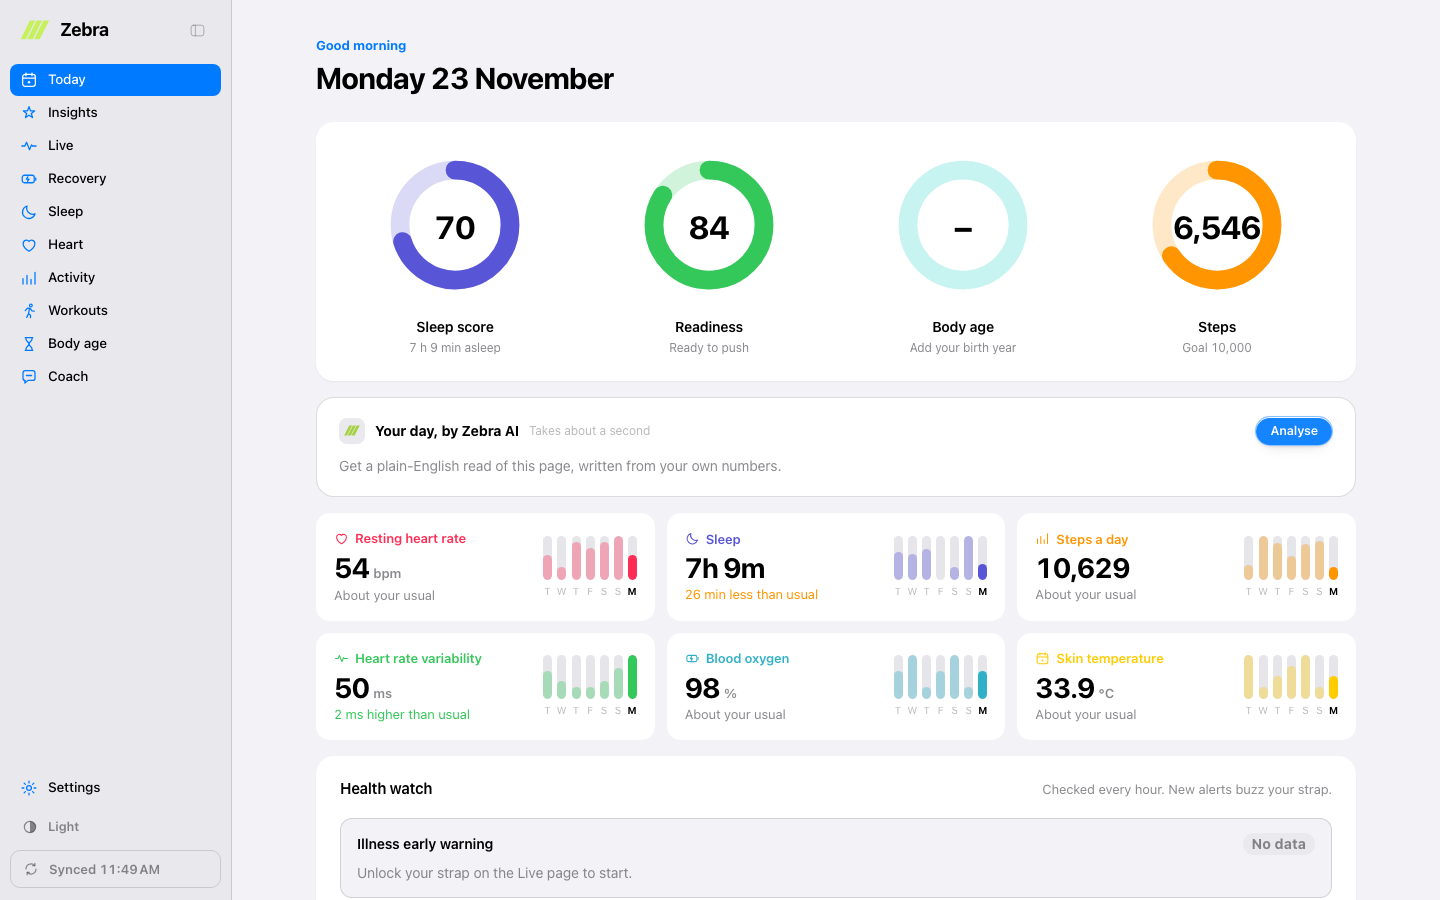
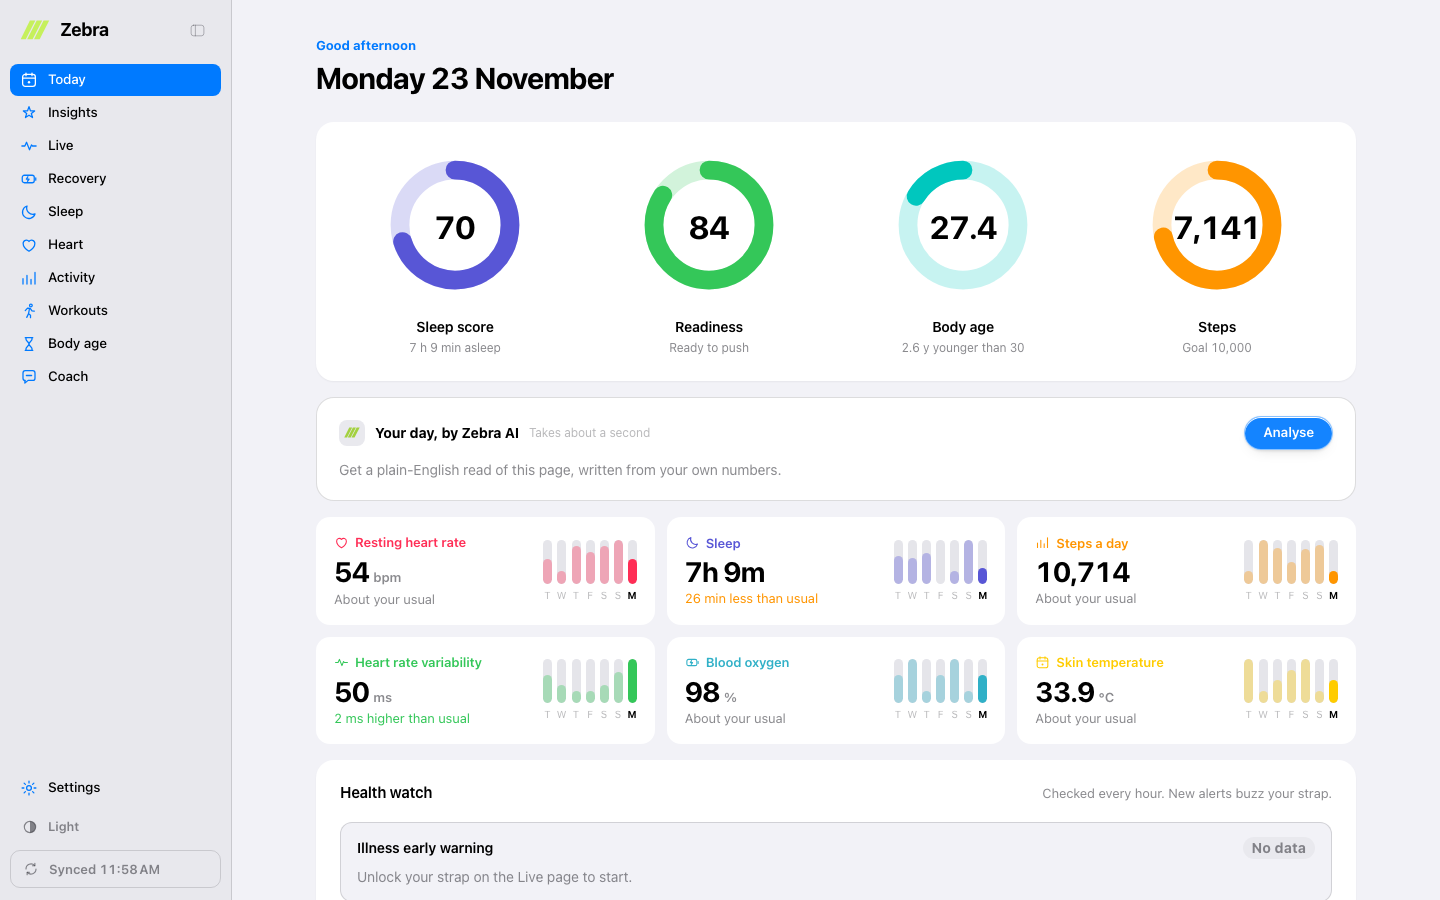
Download page (site/), light theme screenshot, website link

diff --git a/site/index.html b/site/index.html
@@ -1,0 +1,118 @@
+<!doctype html>
+<html lang="en">
+<head>
+<meta charset="utf-8">
+<meta name="viewport" content="width=device-width, initial-scale=1">
+<title>Zebra for Helio Strap</title>
+<meta name="description" content="A free, open-source Mac app for the Amazfit Helio Strap. Recovery, sleep, body age, live heart rate over Bluetooth, and an AI coach on any provider.">
+<meta property="og:title" content="Zebra: a Mac app for the Amazfit Helio Strap">
+<meta property="og:description" content="Free and open source. Recovery, sleep, body age, live heart rate and an AI coach.">
+<meta property="og:image" content="/img/today.png">
+<link rel="icon" href="/img/icon.png">
+<style>
+:root { --bg:#000; --surface:#1c1c1e; --text:#fff; --muted:rgba(235,235,245,.6); --line:rgba(255,255,255,.1); --accent:#0a84ff; --lime:#c6f05c; }
+@media (prefers-color-scheme: light) { :root { --bg:#f2f2f7; --surface:#fff; --text:#000; --muted:rgba(60,60,67,.6); --line:rgba(0,0,0,.08); --accent:#007aff; } }
+* { box-sizing: border-box; }
+body { margin:0; background:var(--bg); color:var(--text); font:17px/1.5 -apple-system, BlinkMacSystemFont, "SF Pro Text", "Helvetica Neue", sans-serif; -webkit-font-smoothing:antialiased; }
+a { color:var(--accent); text-decoration:none; }
+.wrap { max-width:1120px; margin:0 auto; padding:0 20px; }
+nav { display:flex; align-items:center; justify-content:space-between; padding:18px 0; }
+.brand { display:flex; align-items:center; gap:10px; font-weight:700; font-size:19px; color:var(--text); }
+.brand img { width:30px; height:30px; border-radius:7px; }
+.hero { text-align:center; padding:56px 0 28px; }
+h1 { font-size:clamp(38px,6vw,64px); line-height:1.05; letter-spacing:-.03em; margin:0 0 16px; }
+.lede { font-size:clamp(18px,2.2vw,21px); color:var(--muted); max-width:640px; margin:0 auto 28px; }
+.cta { display:flex; gap:12px; justify-content:center; flex-wrap:wrap; }
+.btn { display:inline-flex; align-items:center; gap:8px; height:46px; padding:0 22px; border-radius:999px; font-weight:600; font-size:16px; }
+.btn.primary { background:var(--accent); color:#fff; }
+.btn.glass { background:rgba(118,118,128,.2); color:var(--text); border:1px solid var(--line); }
+.small { color:var(--muted); font-size:13px; margin-top:12px; }
+.shot { margin:40px auto 0; border-radius:14px; overflow:hidden; border:1px solid var(--line); box-shadow:0 30px 80px -30px rgba(0,0,0,.7); }
+.shot img { display:block; width:100%; height:auto; }
+section { padding:72px 0 0; }
+h2 { font-size:clamp(28px,4vw,40px); letter-spacing:-.025em; margin:0 0 10px; }
+.sub { color:var(--muted); margin:0 0 28px; max-width:620px; }
+.grid { display:grid; grid-template-columns:repeat(auto-fill,minmax(250px,1fr)); gap:12px; }
+.card { background:var(--surface); border-radius:18px; padding:20px; }
+.card h3 { margin:0 0 6px; font-size:17px; }
+.card p { margin:0; color:var(--muted); font-size:15px; }
+.pair { display:grid; grid-template-columns:1fr 1fr; gap:12px; }
+.pair img { width:100%; border-radius:12px; border:1px solid var(--line); display:block; }
+.steps { counter-reset:s; list-style:none; padding:0; margin:0; display:grid; gap:10px; }
+.steps li { background:var(--surface); border-radius:14px; padding:14px 18px 14px 54px; position:relative; }
+.steps li::before { counter-increment:s; content:counter(s); position:absolute; left:16px; top:13px; width:26px; height:26px; border-radius:50%; background:var(--accent); color:#fff; font-weight:700; font-size:14px; display:grid; place-items:center; }
+code { font:14px ui-monospace, SFMono-Regular, Menlo, monospace; background:rgba(118,118,128,.18); padding:2px 6px; border-radius:6px; word-break:break-all; }
+footer { color:var(--muted); font-size:13px; padding:72px 0 48px; }
+@media (max-width:700px) { .pair { grid-template-columns:1fr; } }
+</style>
+</head>
+<body>
+<div class="wrap">
+  <nav>
+    <a class="brand" href="/"><img src="/img/icon.png" alt="">Zebra</a>
+    <a href="https://github.com/arjanchaudharyy/zebra-helio-strap">GitHub</a>
+  </nav>
+
+  <header class="hero">
+    <h1>Your Helio Strap,<br>on your Mac.</h1>
+    <p class="lede">A free, open-source app for the Amazfit Helio Strap. Recovery, sleep and body age. Live heart rate straight from the strap. An AI coach that knows your numbers.</p>
+    <div class="cta">
+      <a class="btn primary" href="https://github.com/arjanchaudharyy/zebra-helio-strap/releases/latest/download/Zebra-macOS-arm64.zip">Download for Mac</a>
+      <a class="btn glass" href="https://github.com/arjanchaudharyy/zebra-helio-strap">Star on GitHub</a>
+    </div>
+    <p class="small">Apple Silicon, macOS 11 or later. 28 MB. Windows is not available yet.</p>
+    <div class="shot"><img src="/img/today.png" alt="Zebra Today screen with sleep, readiness, body age and steps rings" width="1600" height="1000"></div>
+  </header>
+
+  <section>
+    <h2>Everything the strap knows.</h2>
+    <p class="sub">Zebra downloads your Zepp history into a database on your Mac, talks to the strap over Bluetooth, and explains it in plain English.</p>
+    <div class="grid">
+      <div class="card"><h3>Today</h3><p>Sleep, readiness, body age and steps, plus six vitals with a note on each, like "3 beats higher than usual".</p></div>
+      <div class="card"><h3>Insights</h3><p>This week against last week, a daily read, a weekly plan, and an illness early warning.</p></div>
+      <div class="card"><h3>Live, always on</h3><p>Zebra stays connected to the strap and saves about one heart rate reading every second.</p></div>
+      <div class="card"><h3>Body age</h3><p>From sleep, consistency, steps, resting heart rate, HRV and PAI. Smoothed, so it does not jump.</p></div>
+      <div class="card"><h3>Coach</h3><p>An iMessage-style chat about your data. It runs on the AI you choose.</p></div>
+      <div class="card"><h3>Strap settings</h3><p>Change the heart rate interval and alerts on the strap, from your Mac.</p></div>
+      <div class="card"><h3>Claude Code on your wrist</h3><p>One buzz when a task finishes. Two buzzes when Claude needs you.</p></div>
+      <div class="card"><h3>Yours</h3><p>Local SQLite. No account with us, no server of ours. MIT licensed.</p></div>
+    </div>
+  </section>
+
+  <section>
+    <h2>See it.</h2>
+    <p class="sub">Screenshots use the built-in demo data.</p>
+    <div class="pair">
+      <img src="/img/insights.png" alt="Insights: this week against last week" loading="lazy">
+      <img src="/img/live.png" alt="Live heart rate" loading="lazy">
+      <img src="/img/age.png" alt="Body age" loading="lazy">
+      <img src="/img/coach.png" alt="Coach chat" loading="lazy">
+      <img src="/img/heart.png" alt="Heart rate, every second from the strap" loading="lazy">
+      <img src="/img/today-light.png" alt="Light theme" loading="lazy">
+    </div>
+  </section>
+
+  <section>
+    <h2>Any AI. Or none.</h2>
+    <p class="sub">Use an API key from Sarvam, OpenAI, Anthropic, OpenRouter, Google Gemini or Groq. Or run a model free on your Mac with Ollama or LM Studio. Or point it at any OpenAI-compatible server. Only your numbers are sent, and only when you ask.</p>
+    <div class="shot" style="margin-top:0"><img src="/img/ai.png" alt="AI provider settings" loading="lazy"></div>
+  </section>
+
+  <section id="install">
+    <h2>Install in a minute.</h2>
+    <ol class="steps">
+      <li><a href="https://github.com/arjanchaudharyy/zebra-helio-strap/releases/latest/download/Zebra-macOS-arm64.zip">Download the zip</a>, unzip it, and drag Zebra.app into Applications.</li>
+      <li>The app is not notarized yet. Run this once in Terminal: <code>xattr -dr com.apple.quarantine /Applications/Zebra.app</code>. Or right-click the app and choose Open.</li>
+      <li>Open Zebra and sign in with your Zepp account in Settings. Your history syncs.</li>
+      <li>Allow Bluetooth. The Live page shows your heart rate.</li>
+    </ol>
+    <p class="small">The extra strap features need a small Python client. The <a href="https://github.com/arjanchaudharyy/zebra-helio-strap#install">README</a> explains it.</p>
+  </section>
+
+  <footer>
+    Built on <a href="https://github.com/lingcang728/ZeppBridge">ZeppBridge</a> by LingCang Huang and contributors, and <a href="https://github.com/sayed0am/unstrap">unstrap</a>. Thank you.<br>
+    Zebra is not affiliated with Zepp Health, Amazfit or WHOOP. It is not a medical device.
+  </footer>
+</div>
+</body>
+</html>

diff --git a/README.md b/README.md
@@ -12,6 +12,7 @@
 
 <p align="center">
   <a href="https://github.com/arjanchaudharyy/zebra-helio-strap/releases/latest"><b>Download for Mac</b></a> ·
+  <a href="https://zebra-helio-strap.vercel.app">Website</a> ·
   <a href="#install">Install</a> ·
   <a href="#features">Features</a> ·
   <a href="#credits">Credits</a>
